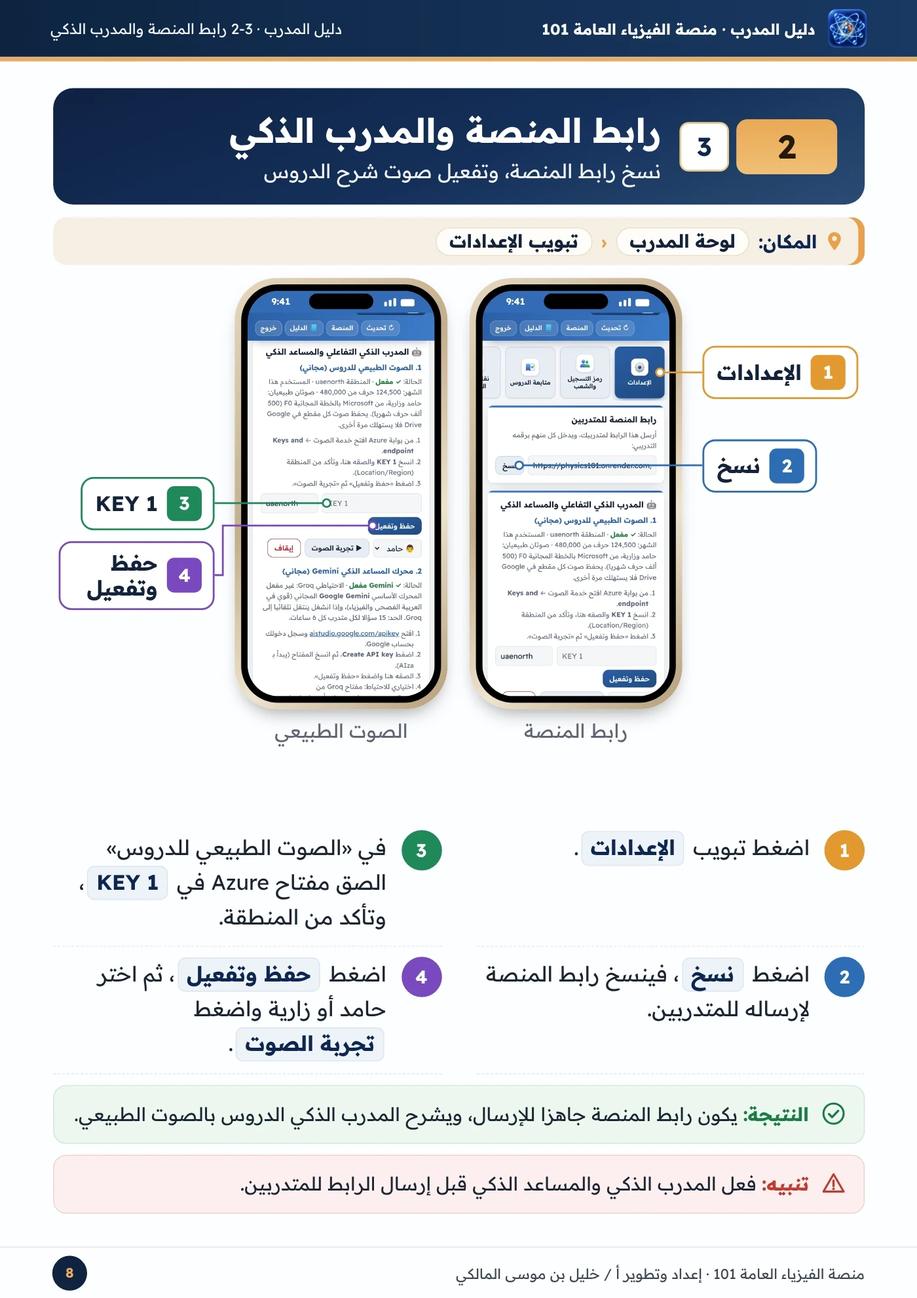
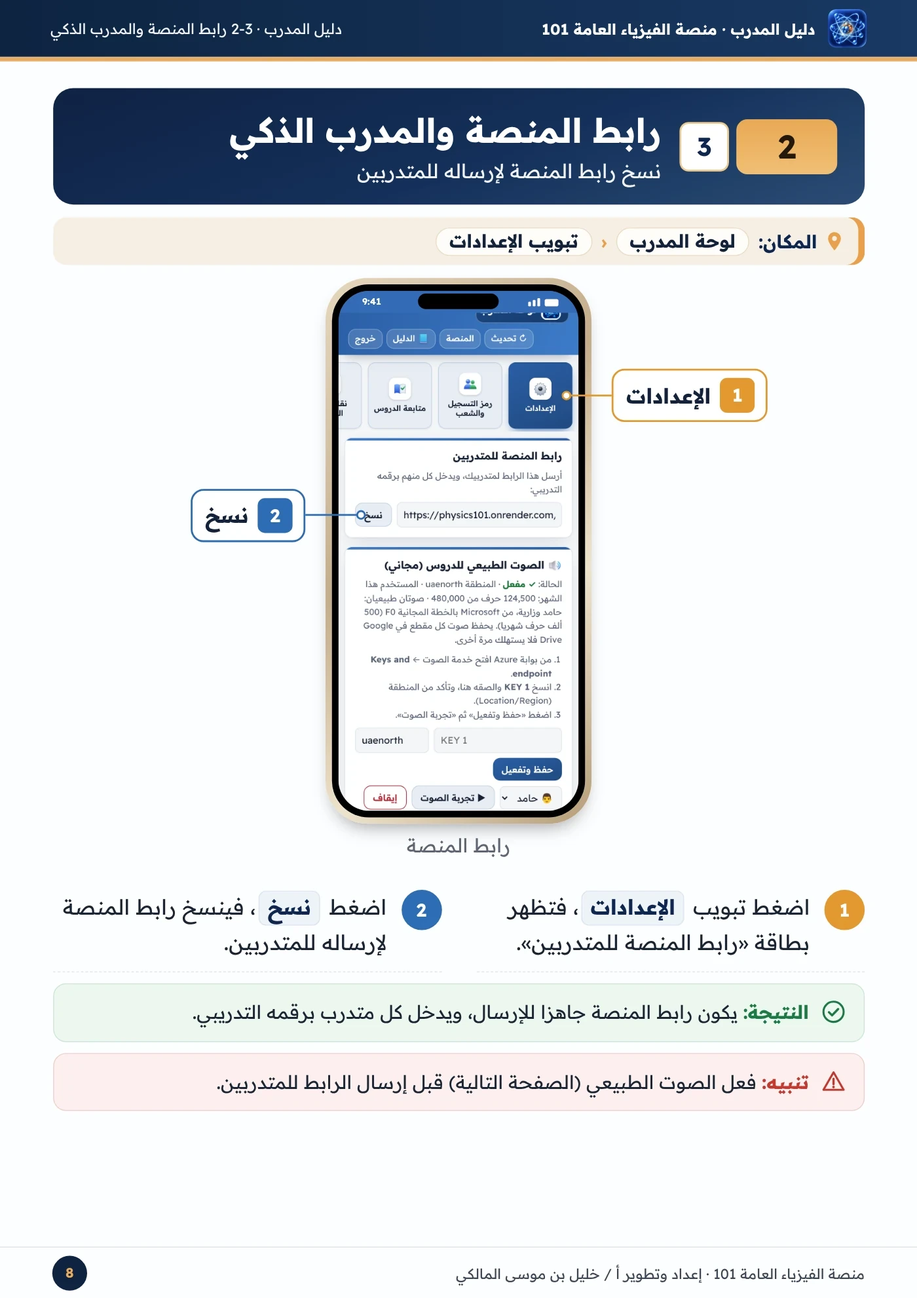
حذف تبويب أسئلة المساعد الذكي من لوحة المدرب، وأزرار أسئلة السبورة الجاهزة تلتف بلا شريط فارغ، وتحديث دليلي المدرب والمتدرب (دليل المدرب 28 صفحة)
Claude-Session: https://claude.ai/code/session_01PuEvYFgE27idXTycqsFmp6

Changed region(s): [[0.0614, 0.2155, 0.9521, 0.9238], [0.3071, 0.1232, 0.5529, 0.154], [0.1229, 0.739, 0.1843, 0.7698]]

diff --git a/teacher-guide.html b/teacher-guide.html
@@ -16,9 +16,9 @@ main{max-width:920px;margin:0 auto;padding:12px 10px 40px;padding-left:max(10px,
 .note{font-size:13px;color:#5B6479;margin:0 0 10px;text-align:center}
 </style></head><body>
 <header><img src="icon-192.png" alt=""><h1>دليل المدرب</h1><button type="button" id="tg">☰ الفهرس</button><a href="teacher.html">↩ لوحة المدرب</a></header>
-<main><nav class="toc" id="toc"><h2>☰ محتويات دليل المدرب</h2><a href="#p2"><span>•</span>المتطلبات قبل البدء</a><div class="stg"><b>1</b>مرحلة الدخول</div><a href="#p3"><span>1-1</span>الدخول إلى لوحة المدرب</a><a href="#p5"><span>1-2</span>الخصوصية وموافقة المتدربين</a><div class="stg"><b>2</b>مرحلة الإعدادات</div><a href="#p6"><span>2-1</span>رمز التسجيل لأول دخول</a><a href="#p7"><span>2-2</span>إضافة الشعب</a><a href="#p8"><span>2-3</span>رابط المنصة والمدرب الذكي</a><a href="#p10"><span>2-4</span>بيانات الدخول</a><a href="#p11"><span>2-5</span>إدارة المتدربين</a><a href="#p12"><span>2-6</span>توزيع نقاط مهام الدروس</a><div class="stg"><b>3</b>مرحلة متابعة الدروس</div><a href="#p13"><span>3-1</span>متابعة الدروس</a><a href="#p14"><span>3-2</span>سجل متابعة المتدرب</a><div class="stg"><b>4</b>مرحلة مهام الدروس</div><a href="#p15"><span>4-1</span>نقاط مهام الدروس</a><a href="#p16"><span>4-2</span>المؤشرات والمتابعة</a><a href="#p17"><span>4-3</span>بطاقة المتدرب</a><div class="stg"><b>5</b>مرحلة الاختبارات</div><a href="#p18"><span>5-1</span>الاختبارات: الشعب والمتدربون</a><a href="#p19"><span>5-2</span>فتح الاختبار والرمز والمدة</a><a href="#p20"><span>5-3</span>موعد الاختبار والإعدادات العامة</a><a href="#p21"><span>5-4</span>سجل نتائج الاختبارات</a><a href="#p22"><span>5-5</span>إعادة الاختبار والسماح بجهاز آخر</a><a href="#p23"><span>5-6</span>أوراق المتدربين</a><a href="#p24"><span>5-7</span>الورقة بعد الحل والطباعة</a><a href="#p25"><span>5-8</span>بنك الأسئلة وتصدير Word</a><div class="stg"><b>6</b>مرحلة الإحصائيات والتقارير</div><a href="#p26"><span>6-1</span>الإحصائيات والتقارير</a><a href="#p27"><span>6-2</span>التقييم ومدة شرح الدروس</a><a href="#p28"><span>6-3</span>أسئلة المساعد الذكي</a><div class="stg"><b>7</b>مرحلة الخروج</div><a href="#p29"><span>7-1</span>تسجيل الخروج</a></nav>
+<main><nav class="toc" id="toc"><h2>☰ محتويات دليل المدرب</h2><a href="#p2"><span>•</span>المتطلبات قبل البدء</a><div class="stg"><b>1</b>مرحلة الدخول</div><a href="#p3"><span>1-1</span>الدخول إلى لوحة المدرب</a><a href="#p5"><span>1-2</span>الخصوصية وموافقة المتدربين</a><div class="stg"><b>2</b>مرحلة الإعدادات</div><a href="#p6"><span>2-1</span>رمز التسجيل لأول دخول</a><a href="#p7"><span>2-2</span>إضافة الشعب</a><a href="#p8"><span>2-3</span>رابط المنصة والمدرب الذكي</a><a href="#p10"><span>2-4</span>بيانات الدخول</a><a href="#p11"><span>2-5</span>إدارة المتدربين</a><a href="#p12"><span>2-6</span>توزيع نقاط مهام الدروس</a><div class="stg"><b>3</b>مرحلة متابعة الدروس</div><a href="#p13"><span>3-1</span>متابعة الدروس</a><a href="#p14"><span>3-2</span>سجل متابعة المتدرب</a><div class="stg"><b>4</b>مرحلة مهام الدروس</div><a href="#p15"><span>4-1</span>نقاط مهام الدروس</a><a href="#p16"><span>4-2</span>المؤشرات والمتابعة</a><a href="#p17"><span>4-3</span>بطاقة المتدرب</a><div class="stg"><b>5</b>مرحلة الاختبارات</div><a href="#p18"><span>5-1</span>الاختبارات: الشعب والمتدربون</a><a href="#p19"><span>5-2</span>فتح الاختبار والرمز والمدة</a><a href="#p20"><span>5-3</span>موعد الاختبار والإعدادات العامة</a><a href="#p21"><span>5-4</span>سجل نتائج الاختبارات</a><a href="#p22"><span>5-5</span>إعادة الاختبار والسماح بجهاز آخر</a><a href="#p23"><span>5-6</span>أوراق المتدربين</a><a href="#p24"><span>5-7</span>الورقة بعد الحل والطباعة</a><a href="#p25"><span>5-8</span>بنك الأسئلة وتصدير Word</a><div class="stg"><b>6</b>مرحلة الإحصائيات والتقارير</div><a href="#p26"><span>6-1</span>الإحصائيات والتقارير</a><a href="#p27"><span>6-2</span>التقييم ومدة شرح الدروس</a><div class="stg"><b>7</b>مرحلة الخروج</div><a href="#p28"><span>7-1</span>تسجيل الخروج</a></nav>
 <p class="note">كبر الصفحة بإصبعين لقراءة التفاصيل.</p>
-<img id="p1" class="pg" src="gtc-01.webp?v=1104j" width="1000" height="1415" alt="دليل المدرب - صفحة 1" loading="eager" decoding="async"><img id="p2" class="pg" src="gtc-02.webp?v=1104j" width="1000" height="1415" alt="دليل المدرب - صفحة 2" loading="eager" decoding="async"><img id="p3" class="pg" src="gtc-03.webp?v=1104j" width="1000" height="1415" alt="دليل المدرب - صفحة 3" loading="lazy" decoding="async"><img id="p4" class="pg" src="gtc-04.webp?v=1104j" width="1000" height="1415" alt="دليل المدرب - صفحة 4" loading="lazy" decoding="async"><img id="p5" class="pg" src="gtc-05.webp?v=1104j" width="1000" height="1415" alt="دليل المدرب - صفحة 5" loading="lazy" decoding="async"><img id="p6" class="pg" src="gtc-06.webp?v=1104j" width="1000" height="1415" alt="دليل المدرب - صفحة 6" loading="lazy" decoding="async"><img id="p7" class="pg" src="gtc-07.webp?v=1104j" width="1000" height="1415" alt="دليل المدرب - صفحة 7" loading="lazy" decoding="async"><img id="p8" class="pg" src="gtc-08.webp?v=1104j" width="1000" height="1415" alt="دليل المدرب - صفحة 8" loading="lazy" decoding="async"><img id="p9" class="pg" src="gtc-09.webp?v=1104j" width="1000" height="1415" alt="دليل المدرب - صفحة 9" loading="lazy" decoding="async"><img id="p10" class="pg" src="gtc-10.webp?v=1104j" width="1000" height="1415" alt="دليل المدرب - صفحة 10" loading="lazy" decoding="async"><img id="p11" class="pg" src="gtc-11.webp?v=1104j" width="1000" height="1415" alt="دليل المدرب - صفحة 11" loading="lazy" decoding="async"><img id="p12" class="pg" src="gtc-12.webp?v=1104j" width="1000" height="1415" alt="دليل المدرب - صفحة 12" loading="lazy" decoding="async"><img id="p13" class="pg" src="gtc-13.webp?v=1104j" width="1000" height="1415" alt="دليل المدرب - صفحة 13" loading="lazy" decoding="async"><img id="p14" class="pg" src="gtc-14.webp?v=1104j" width="1000" height="1415" alt="دليل المدرب - صفحة 14" loading="lazy" decoding="async"><img id="p15" class="pg" src="gtc-15.webp?v=1104j" width="1000" height="1415" alt="دليل المدرب - صفحة 15" loading="lazy" decoding="async"><img id="p16" class="pg" src="gtc-16.webp?v=1104j" width="1000" height="1415" alt="دليل المدرب - صفحة 16" loading="lazy" decoding="async"><img id="p17" class="pg" src="gtc-17.webp?v=1104j" width="1000" height="1415" alt="دليل المدرب - صفحة 17" loading="lazy" decoding="async"><img id="p18" class="pg" src="gtc-18.webp?v=1104j" width="1000" height="1415" alt="دليل المدرب - صفحة 18" loading="lazy" decoding="async"><img id="p19" class="pg" src="gtc-19.webp?v=1104j" width="1000" height="1415" alt="دليل المدرب - صفحة 19" loading="lazy" decoding="async"><img id="p20" class="pg" src="gtc-20.webp?v=1104j" width="1000" height="1415" alt="دليل المدرب - صفحة 20" loading="lazy" decoding="async"><img id="p21" class="pg" src="gtc-21.webp?v=1104j" width="1000" height="1415" alt="دليل المدرب - صفحة 21" loading="lazy" decoding="async"><img id="p22" class="pg" src="gtc-22.webp?v=1104j" width="1000" height="1415" alt="دليل المدرب - صفحة 22" loading="lazy" decoding="async"><img id="p23" class="pg" src="gtc-23.webp?v=1104j" width="1000" height="1415" alt="دليل المدرب - صفحة 23" loading="lazy" decoding="async"><img id="p24" class="pg" src="gtc-24.webp?v=1104j" width="1000" height="1415" alt="دليل المدرب - صفحة 24" loading="lazy" decoding="async"><img id="p25" class="pg" src="gtc-25.webp?v=1104j" width="1000" height="1415" alt="دليل المدرب - صفحة 25" loading="lazy" decoding="async"><img id="p26" class="pg" src="gtc-26.webp?v=1104j" width="1000" height="1415" alt="دليل المدرب - صفحة 26" loading="lazy" decoding="async"><img id="p27" class="pg" src="gtc-27.webp?v=1104j" width="1000" height="1415" alt="دليل المدرب - صفحة 27" loading="lazy" decoding="async"><img id="p28" class="pg" src="gtc-28.webp?v=1104j" width="1000" height="1415" alt="دليل المدرب - صفحة 28" loading="lazy" decoding="async"><img id="p29" class="pg" src="gtc-29.webp?v=1104j" width="1000" height="1415" alt="دليل المدرب - صفحة 29" loading="lazy" decoding="async"></main>
+<img id="p1" class="pg" src="gtc-01.webp?v=1104k" width="1000" height="1415" alt="دليل المدرب - صفحة 1" loading="eager" decoding="async"><img id="p2" class="pg" src="gtc-02.webp?v=1104k" width="1000" height="1415" alt="دليل المدرب - صفحة 2" loading="eager" decoding="async"><img id="p3" class="pg" src="gtc-03.webp?v=1104k" width="1000" height="1415" alt="دليل المدرب - صفحة 3" loading="lazy" decoding="async"><img id="p4" class="pg" src="gtc-04.webp?v=1104k" width="1000" height="1415" alt="دليل المدرب - صفحة 4" loading="lazy" decoding="async"><img id="p5" class="pg" src="gtc-05.webp?v=1104k" width="1000" height="1415" alt="دليل المدرب - صفحة 5" loading="lazy" decoding="async"><img id="p6" class="pg" src="gtc-06.webp?v=1104k" width="1000" height="1415" alt="دليل المدرب - صفحة 6" loading="lazy" decoding="async"><img id="p7" class="pg" src="gtc-07.webp?v=1104k" width="1000" height="1415" alt="دليل المدرب - صفحة 7" loading="lazy" decoding="async"><img id="p8" class="pg" src="gtc-08.webp?v=1104k" width="1000" height="1415" alt="دليل المدرب - صفحة 8" loading="lazy" decoding="async"><img id="p9" class="pg" src="gtc-09.webp?v=1104k" width="1000" height="1415" alt="دليل المدرب - صفحة 9" loading="lazy" decoding="async"><img id="p10" class="pg" src="gtc-10.webp?v=1104k" width="1000" height="1415" alt="دليل المدرب - صفحة 10" loading="lazy" decoding="async"><img id="p11" class="pg" src="gtc-11.webp?v=1104k" width="1000" height="1415" alt="دليل المدرب - صفحة 11" loading="lazy" decoding="async"><img id="p12" class="pg" src="gtc-12.webp?v=1104k" width="1000" height="1415" alt="دليل المدرب - صفحة 12" loading="lazy" decoding="async"><img id="p13" class="pg" src="gtc-13.webp?v=1104k" width="1000" height="1415" alt="دليل المدرب - صفحة 13" loading="lazy" decoding="async"><img id="p14" class="pg" src="gtc-14.webp?v=1104k" width="1000" height="1415" alt="دليل المدرب - صفحة 14" loading="lazy" decoding="async"><img id="p15" class="pg" src="gtc-15.webp?v=1104k" width="1000" height="1415" alt="دليل المدرب - صفحة 15" loading="lazy" decoding="async"><img id="p16" class="pg" src="gtc-16.webp?v=1104k" width="1000" height="1415" alt="دليل المدرب - صفحة 16" loading="lazy" decoding="async"><img id="p17" class="pg" src="gtc-17.webp?v=1104k" width="1000" height="1415" alt="دليل المدرب - صفحة 17" loading="lazy" decoding="async"><img id="p18" class="pg" src="gtc-18.webp?v=1104k" width="1000" height="1415" alt="دليل المدرب - صفحة 18" loading="lazy" decoding="async"><img id="p19" class="pg" src="gtc-19.webp?v=1104k" width="1000" height="1415" alt="دليل المدرب - صفحة 19" loading="lazy" decoding="async"><img id="p20" class="pg" src="gtc-20.webp?v=1104k" width="1000" height="1415" alt="دليل المدرب - صفحة 20" loading="lazy" decoding="async"><img id="p21" class="pg" src="gtc-21.webp?v=1104k" width="1000" height="1415" alt="دليل المدرب - صفحة 21" loading="lazy" decoding="async"><img id="p22" class="pg" src="gtc-22.webp?v=1104k" width="1000" height="1415" alt="دليل المدرب - صفحة 22" loading="lazy" decoding="async"><img id="p23" class="pg" src="gtc-23.webp?v=1104k" width="1000" height="1415" alt="دليل المدرب - صفحة 23" loading="lazy" decoding="async"><img id="p24" class="pg" src="gtc-24.webp?v=1104k" width="1000" height="1415" alt="دليل المدرب - صفحة 24" loading="lazy" decoding="async"><img id="p25" class="pg" src="gtc-25.webp?v=1104k" width="1000" height="1415" alt="دليل المدرب - صفحة 25" loading="lazy" decoding="async"><img id="p26" class="pg" src="gtc-26.webp?v=1104k" width="1000" height="1415" alt="دليل المدرب - صفحة 26" loading="lazy" decoding="async"><img id="p27" class="pg" src="gtc-27.webp?v=1104k" width="1000" height="1415" alt="دليل المدرب - صفحة 27" loading="lazy" decoding="async"><img id="p28" class="pg" src="gtc-28.webp?v=1104k" width="1000" height="1415" alt="دليل المدرب - صفحة 28" loading="lazy" decoding="async"></main>
 <button class="top" type="button" id="up" aria-label="إلى الأعلى">↑</button>
 <script>
 const T=document.getElementById('toc');document.getElementById('tg').onclick=()=>{T.hidden=false;T.scrollIntoView({behavior:'smooth'})};

diff --git a/guide.html b/guide.html
@@ -18,7 +18,7 @@ main{max-width:920px;margin:0 auto;padding:12px 10px 40px;padding-left:max(10px,
 <header><img src="icon-192.png" alt=""><h1>دليل المتدرب</h1><button type="button" id="tg">☰ الفهرس</button><a href="index.html">↩ المنصة</a></header>
 <main><nav class="toc" id="toc"><h2>☰ محتويات دليل المتدرب</h2><a href="#p2"><span>•</span>المتطلبات قبل البدء</a><div class="stg"><b>1</b>مرحلة البدء</div><a href="#p3"><span>1-1</span>البدء: الدخول وتعيين كلمة المرور</a><a href="#p7"><span>1-2</span>الصفحة الرئيسية واختيار الدرس</a><div class="stg"><b>2</b>مرحلة الشرح</div><a href="#p8"><span>2-1</span>شرح الدرس على السبورة مع المدرب الذكي</a><a href="#p12"><span>2-2</span>مهام الدروس</a><div class="stg"><b>3</b>مرحلة التدريب</div><a href="#p13"><span>3-1</span>الأمثلة والتمارين التفاعلية</a><a href="#p17"><span>3-2</span>اختبر نفسك والآلة الحاسبة</a><a href="#p19"><span>3-3</span>التجارب العملية التفاعلية</a><a href="#p22"><span>3-4</span>المساعد الذكي وتقييم الدرس</a><div class="stg"><b>4</b>مرحلة الإنهاء</div><a href="#p25"><span>4-1</span>إنهاء الدرس والانتقال للدرس التالي</a><a href="#p27"><span>4-2</span>الإعدادات: الصوت والوضع الليلي</a><div class="stg"><b>5</b>مرحلة الاختبارات والخروج</div><a href="#p29"><span>5-1</span>الاختبارات التجريبية</a><a href="#p33"><span>5-2</span>تسجيل الخروج</a></nav>
 <p class="note">كبر الصفحة بإصبعين لقراءة التفاصيل.</p>
-<img id="p1" class="pg" src="gtr-01.webp?v=1104j" width="1000" height="1415" alt="دليل المتدرب - صفحة 1" loading="eager" decoding="async"><img id="p2" class="pg" src="gtr-02.webp?v=1104j" width="1000" height="1415" alt="دليل المتدرب - صفحة 2" loading="eager" decoding="async"><img id="p3" class="pg" src="gtr-03.webp?v=1104j" width="1000" height="1415" alt="دليل المتدرب - صفحة 3" loading="lazy" decoding="async"><img id="p4" class="pg" src="gtr-04.webp?v=1104j" width="1000" height="1415" alt="دليل المتدرب - صفحة 4" loading="lazy" decoding="async"><img id="p5" class="pg" src="gtr-05.webp?v=1104j" width="1000" height="1415" alt="دليل المتدرب - صفحة 5" loading="lazy" decoding="async"><img id="p6" class="pg" src="gtr-06.webp?v=1104j" width="1000" height="1415" alt="دليل المتدرب - صفحة 6" loading="lazy" decoding="async"><img id="p7" class="pg" src="gtr-07.webp?v=1104j" width="1000" height="1415" alt="دليل المتدرب - صفحة 7" loading="lazy" decoding="async"><img id="p8" class="pg" src="gtr-08.webp?v=1104j" width="1000" height="1415" alt="دليل المتدرب - صفحة 8" loading="lazy" decoding="async"><img id="p9" class="pg" src="gtr-09.webp?v=1104j" width="1000" height="1415" alt="دليل المتدرب - صفحة 9" loading="lazy" decoding="async"><img id="p10" class="pg" src="gtr-10.webp?v=1104j" width="1000" height="1415" alt="دليل المتدرب - صفحة 10" loading="lazy" decoding="async"><img id="p11" class="pg" src="gtr-11.webp?v=1104j" width="1000" height="1415" alt="دليل المتدرب - صفحة 11" loading="lazy" decoding="async"><img id="p12" class="pg" src="gtr-12.webp?v=1104j" width="1000" height="1415" alt="دليل المتدرب - صفحة 12" loading="lazy" decoding="async"><img id="p13" class="pg" src="gtr-13.webp?v=1104j" width="1000" height="1415" alt="دليل المتدرب - صفحة 13" loading="lazy" decoding="async"><img id="p14" class="pg" src="gtr-14.webp?v=1104j" width="1000" height="1415" alt="دليل المتدرب - صفحة 14" loading="lazy" decoding="async"><img id="p15" class="pg" src="gtr-15.webp?v=1104j" width="1000" height="1415" alt="دليل المتدرب - صفحة 15" loading="lazy" decoding="async"><img id="p16" class="pg" src="gtr-16.webp?v=1104j" width="1000" height="1415" alt="دليل المتدرب - صفحة 16" loading="lazy" decoding="async"><img id="p17" class="pg" src="gtr-17.webp?v=1104j" width="1000" height="1415" alt="دليل المتدرب - صفحة 17" loading="lazy" decoding="async"><img id="p18" class="pg" src="gtr-18.webp?v=1104j" width="1000" height="1415" alt="دليل المتدرب - صفحة 18" loading="lazy" decoding="async"><img id="p19" class="pg" src="gtr-19.webp?v=1104j" width="1000" height="1415" alt="دليل المتدرب - صفحة 19" loading="lazy" decoding="async"><img id="p20" class="pg" src="gtr-20.webp?v=1104j" width="1000" height="1415" alt="دليل المتدرب - صفحة 20" loading="lazy" decoding="async"><img id="p21" class="pg" src="gtr-21.webp?v=1104j" width="1000" height="1415" alt="دليل المتدرب - صفحة 21" loading="lazy" decoding="async"><img id="p22" class="pg" src="gtr-22.webp?v=1104j" width="1000" height="1415" alt="دليل المتدرب - صفحة 22" loading="lazy" decoding="async"><img id="p23" class="pg" src="gtr-23.webp?v=1104j" width="1000" height="1415" alt="دليل المتدرب - صفحة 23" loading="lazy" decoding="async"><img id="p24" class="pg" src="gtr-24.webp?v=1104j" width="1000" height="1415" alt="دليل المتدرب - صفحة 24" loading="lazy" decoding="async"><img id="p25" class="pg" src="gtr-25.webp?v=1104j" width="1000" height="1415" alt="دليل المتدرب - صفحة 25" loading="lazy" decoding="async"><img id="p26" class="pg" src="gtr-26.webp?v=1104j" width="1000" height="1415" alt="دليل المتدرب - صفحة 26" loading="lazy" decoding="async"><img id="p27" class="pg" src="gtr-27.webp?v=1104j" width="1000" height="1415" alt="دليل المتدرب - صفحة 27" loading="lazy" decoding="async"><img id="p28" class="pg" src="gtr-28.webp?v=1104j" width="1000" height="1415" alt="دليل المتدرب - صفحة 28" loading="lazy" decoding="async"><img id="p29" class="pg" src="gtr-29.webp?v=1104j" width="1000" height="1415" alt="دليل المتدرب - صفحة 29" loading="lazy" decoding="async"><img id="p30" class="pg" src="gtr-30.webp?v=1104j" width="1000" height="1415" alt="دليل المتدرب - صفحة 30" loading="lazy" decoding="async"><img id="p31" class="pg" src="gtr-31.webp?v=1104j" width="1000" height="1415" alt="دليل المتدرب - صفحة 31" loading="lazy" decoding="async"><img id="p32" class="pg" src="gtr-32.webp?v=1104j" width="1000" height="1415" alt="دليل المتدرب - صفحة 32" loading="lazy" decoding="async"><img id="p33" class="pg" src="gtr-33.webp?v=1104j" width="1000" height="1415" alt="دليل المتدرب - صفحة 33" loading="lazy" decoding="async"></main>
+<img id="p1" class="pg" src="gtr-01.webp?v=1104k" width="1000" height="1415" alt="دليل المتدرب - صفحة 1" loading="eager" decoding="async"><img id="p2" class="pg" src="gtr-02.webp?v=1104k" width="1000" height="1415" alt="دليل المتدرب - صفحة 2" loading="eager" decoding="async"><img id="p3" class="pg" src="gtr-03.webp?v=1104k" width="1000" height="1415" alt="دليل المتدرب - صفحة 3" loading="lazy" decoding="async"><img id="p4" class="pg" src="gtr-04.webp?v=1104k" width="1000" height="1415" alt="دليل المتدرب - صفحة 4" loading="lazy" decoding="async"><img id="p5" class="pg" src="gtr-05.webp?v=1104k" width="1000" height="1415" alt="دليل المتدرب - صفحة 5" loading="lazy" decoding="async"><img id="p6" class="pg" src="gtr-06.webp?v=1104k" width="1000" height="1415" alt="دليل المتدرب - صفحة 6" loading="lazy" decoding="async"><img id="p7" class="pg" src="gtr-07.webp?v=1104k" width="1000" height="1415" alt="دليل المتدرب - صفحة 7" loading="lazy" decoding="async"><img id="p8" class="pg" src="gtr-08.webp?v=1104k" width="1000" height="1415" alt="دليل المتدرب - صفحة 8" loading="lazy" decoding="async"><img id="p9" class="pg" src="gtr-09.webp?v=1104k" width="1000" height="1415" alt="دليل المتدرب - صفحة 9" loading="lazy" decoding="async"><img id="p10" class="pg" src="gtr-10.webp?v=1104k" width="1000" height="1415" alt="دليل المتدرب - صفحة 10" loading="lazy" decoding="async"><img id="p11" class="pg" src="gtr-11.webp?v=1104k" width="1000" height="1415" alt="دليل المتدرب - صفحة 11" loading="lazy" decoding="async"><img id="p12" class="pg" src="gtr-12.webp?v=1104k" width="1000" height="1415" alt="دليل المتدرب - صفحة 12" loading="lazy" decoding="async"><img id="p13" class="pg" src="gtr-13.webp?v=1104k" width="1000" height="1415" alt="دليل المتدرب - صفحة 13" loading="lazy" decoding="async"><img id="p14" class="pg" src="gtr-14.webp?v=1104k" width="1000" height="1415" alt="دليل المتدرب - صفحة 14" loading="lazy" decoding="async"><img id="p15" class="pg" src="gtr-15.webp?v=1104k" width="1000" height="1415" alt="دليل المتدرب - صفحة 15" loading="lazy" decoding="async"><img id="p16" class="pg" src="gtr-16.webp?v=1104k" width="1000" height="1415" alt="دليل المتدرب - صفحة 16" loading="lazy" decoding="async"><img id="p17" class="pg" src="gtr-17.webp?v=1104k" width="1000" height="1415" alt="دليل المتدرب - صفحة 17" loading="lazy" decoding="async"><img id="p18" class="pg" src="gtr-18.webp?v=1104k" width="1000" height="1415" alt="دليل المتدرب - صفحة 18" loading="lazy" decoding="async"><img id="p19" class="pg" src="gtr-19.webp?v=1104k" width="1000" height="1415" alt="دليل المتدرب - صفحة 19" loading="lazy" decoding="async"><img id="p20" class="pg" src="gtr-20.webp?v=1104k" width="1000" height="1415" alt="دليل المتدرب - صفحة 20" loading="lazy" decoding="async"><img id="p21" class="pg" src="gtr-21.webp?v=1104k" width="1000" height="1415" alt="دليل المتدرب - صفحة 21" loading="lazy" decoding="async"><img id="p22" class="pg" src="gtr-22.webp?v=1104k" width="1000" height="1415" alt="دليل المتدرب - صفحة 22" loading="lazy" decoding="async"><img id="p23" class="pg" src="gtr-23.webp?v=1104k" width="1000" height="1415" alt="دليل المتدرب - صفحة 23" loading="lazy" decoding="async"><img id="p24" class="pg" src="gtr-24.webp?v=1104k" width="1000" height="1415" alt="دليل المتدرب - صفحة 24" loading="lazy" decoding="async"><img id="p25" class="pg" src="gtr-25.webp?v=1104k" width="1000" height="1415" alt="دليل المتدرب - صفحة 25" loading="lazy" decoding="async"><img id="p26" class="pg" src="gtr-26.webp?v=1104k" width="1000" height="1415" alt="دليل المتدرب - صفحة 26" loading="lazy" decoding="async"><img id="p27" class="pg" src="gtr-27.webp?v=1104k" width="1000" height="1415" alt="دليل المتدرب - صفحة 27" loading="lazy" decoding="async"><img id="p28" class="pg" src="gtr-28.webp?v=1104k" width="1000" height="1415" alt="دليل المتدرب - صفحة 28" loading="lazy" decoding="async"><img id="p29" class="pg" src="gtr-29.webp?v=1104k" width="1000" height="1415" alt="دليل المتدرب - صفحة 29" loading="lazy" decoding="async"><img id="p30" class="pg" src="gtr-30.webp?v=1104k" width="1000" height="1415" alt="دليل المتدرب - صفحة 30" loading="lazy" decoding="async"><img id="p31" class="pg" src="gtr-31.webp?v=1104k" width="1000" height="1415" alt="دليل المتدرب - صفحة 31" loading="lazy" decoding="async"><img id="p32" class="pg" src="gtr-32.webp?v=1104k" width="1000" height="1415" alt="دليل المتدرب - صفحة 32" loading="lazy" decoding="async"><img id="p33" class="pg" src="gtr-33.webp?v=1104k" width="1000" height="1415" alt="دليل المتدرب - صفحة 33" loading="lazy" decoding="async"></main>
 <button class="top" type="button" id="up" aria-label="إلى الأعلى">↑</button>
 <script>
 const T=document.getElementById('toc');document.getElementById('tg').onclick=()=>{T.hidden=false;T.scrollIntoView({behavior:'smooth'})};

diff --git a/teacher.html b/teacher.html
@@ -338,7 +338,7 @@ const esc=s=>String(s==null?'':s).replace(/[&<>"]/g,c=>({'&':'&amp;','<':'&lt;',
 const AR=n=>String(n);   // الأرقام بالإنجليزية في كل المنصة
 const ls={get(k,d){try{const v=localStorage.getItem(k);return v?JSON.parse(v):d}catch(e){return d}},set(k,v){try{localStorage.setItem(k,JSON.stringify(v))}catch(e){}},del(k){try{localStorage.removeItem(k)}catch(e){}}};
 let TOKEN=ls.get('p101-tauth',null);
-let WOPEN=false,WSET=[],WREC='',DATA=null,tab=ls.get('p101-ttab','sections'),secFilter=ls.get('p101-tsec','all'),sortBy={k:'name',asc:true},q='';
+let WOPEN=false,WSET=[],WREC='',DATA=null,tab=ls.get('p101-ttab','sections')==='ai'?'settings':ls.get('p101-ttab','sections'),secFilter=ls.get('p101-tsec','all'),sortBy={k:'name',asc:true},q='';
 const ERR={tts_bad_key:'مفتاح Azure غير صحيح الشكل. انسخ KEY 1 كما هو.',tts_key:'مفتاح Azure غير صالح. انسخ KEY 1 مرة أخرى من صفحة Keys and endpoint.',tts_region:'المنطقة غير صحيحة. اكتبها كما في Azure، مثل uaenorth.',tts_off:'الصوت الطبيعي غير مفعل.',tts_quota:'انتهت الحصة المجانية لهذا الشهر.',tts_busy:'الخدمة مشغولة، حاول بعد دقيقة.',tts_error:'تعذر توليد الصوت. تأكد أنك نشرت الإصدار الجديد من الكود ومنحت صلاحية Google Drive.',bad_key:'المفتاح غير صحيح الشكل.',ai_key:'المفتاح غير صالح أو منتهي. أنشئ مفتاحا جديدا.',wrong_user:'اسم المستخدم غير صحيح.',short_user:'اسم المستخدم قصير (6 خانات على الأقل).',bad_setup_code:'رمز إعداد المدرب غير صحيح أو انتهت مدته. شغل الدالة newTeacherSetupCode في Apps Script لرمز جديد.',weak_password:'كلمة المرور لا تحقق الشروط: 12 خانة على الأقل، وحرف إنجليزي كبير وصغير ورقم ورمز، بلا مسافات، ولا تحتوي اسم المستخدم.',locked:'الحساب مقفل مؤقتا بسبب محاولات خاطئة. حاول بعد قليل.',bad_user:'اختر اسم مستخدم آخر: 6 خانات على الأقل، وليس demo ولا أرقاما فقط.',wrong_password:'كلمة المرور غير صحيحة.',short_password:'كلمة المرور قصيرة (12 خانة على الأقل).',already_set:'تم إنشاء كلمة مرور المدرب مسبقا. استخدم «دخول».',not_setup:'لم تنشأ كلمة مرور المدرب بعد.',section_not_empty:'لا يمكن حذف شعبة فيها متدربون. انقلهم أو احذفهم أولا.',name_required:'اكتب اسم الشعبة.',not_found:'غير موجود.',auth:'انتهت الجلسة، سجل الدخول مرة أخرى.'};
 const errText=e=>ERR[e]||('حدث خطأ: '+e);
 function toast(m){const t=document.createElement('div');t.className='toast';t.textContent=m;document.body.appendChild(t);setTimeout(()=>t.remove(),2600)}
@@ -363,7 +363,7 @@ function boot(){
   if(!TOKEN)return authScreen();
   root.innerHTML=`<header><b>لوحة المدرب</b><span class="tag" id="sheetLink"></span><div class="sp">
     <button class="btn ghost sm" id="reload">↻ تحديث</button><a class="btn ghost sm" href="index.html" onclick="event.preventDefault();location.replace('index.html')">المنصة</a><a class="btn ghost sm" href="teacher-guide.html">📘 الدليل</a><button class="btn ghost sm" id="logout">خروج</button></div></header>
-  <nav class="tabs" role="tablist">${[['settings','الإعدادات'],['sections','رمز التسجيل والشعب'],['lessons','متابعة الدروس'],['students','نقاط مهام الدروس'],['exams','الاختبارات التجريبية'],['bank','بنك الأسئلة'],['stats','الإحصائيات'],['reports','التقارير'],['ratings','تقييم المتدربين للمنصة'],['dur','مدة شرح الدروس'],['ai','أسئلة المساعد الذكي'],['demo','حساب المعاينة']].map(([k,n])=>`<button role="tab" data-t="${k}" aria-selected="${tab===k}">${n}</button>`).join('')}</nav>
+  <nav class="tabs" role="tablist">${[['settings','الإعدادات'],['sections','رمز التسجيل والشعب'],['lessons','متابعة الدروس'],['students','نقاط مهام الدروس'],['exams','الاختبارات التجريبية'],['bank','بنك الأسئلة'],['stats','الإحصائيات'],['reports','التقارير'],['ratings','تقييم المتدربين للمنصة'],['dur','مدة شرح الدروس'],['demo','حساب المعاينة']].map(([k,n])=>`<button role="tab" data-t="${k}" aria-selected="${tab===k}">${n}</button>`).join('')}</nav>
   <main id="main"><p class="empty"><span class="spin"></span> جار تحميل البيانات…</p></main>`;
   document.documentElement.style.setProperty('--hh',$('header').offsetHeight+'px');
   document.querySelectorAll('nav.tabs button').forEach(b=>b.onclick=()=>{tab=b.dataset.t;ls.set('p101-ttab',tab);document.querySelectorAll('nav.tabs button').forEach(x=>x.setAttribute('aria-selected',x===b));draw()});

diff --git a/fixedai.js b/fixedai.js
@@ -126,7 +126,7 @@ var boardAns=function(o){var T=FB[o.lessonKey]||(window.FXB&&FXB[o.lessonKey]);i
   if(i==null){/* سؤال مكتوب: يبقى المتدرب على الأسئلة الجاهزة */return 'اختر سؤالا من الأسئلة الجاهزة تحت النافذة: «اشرح أبسط»، أو «مثال بالأرقام»، أو «لماذا؟».'}
   return row[i]};
 window.FXASK=function(o){var a=o&&o.mode==='board'?boardAns(o):null;return a?new Promise(function(r){setTimeout(function(){r({ok:true,answer:a})},350)}):Promise.resolve({ok:false,error:'fixed'})};
-var css=document.createElement('style');css.textContent='html body .board .bAskP .bAskF,html body .board .bAskP.p102 .bAskF,html body .board.qOpen .bAskP .bAskF{display:none!important}html body .board .bAskP .bAskChips{flex-wrap:wrap!important;overflow:visible!important}';
+var css=document.createElement('style');css.textContent='html body .board .bAskP .bAskF,html body .board .bAskP.p102 .bAskF,html body .board.qOpen .bAskP .bAskF{display:none!important}html body .board .bAskP .bAskChips,html body .board.board.board.board .bAskP.p102.p102 .bAskChips.bAskChips{flex-wrap:wrap!important;overflow:visible!important}html body .board .bAskP .coDock{display:none!important}';
 var fixT=function(){var w=document.createTreeWalker(document.body,NodeFilter.SHOW_TEXT);var n;while(n=w.nextNode()){if(n.nodeValue.indexOf('اختر سؤالا أو اكتب سؤالك')>=0)n.nodeValue=n.nodeValue.replace('اختر سؤالا أو اكتب سؤالك','اختر سؤالك')}};
 var hideF=function(){document.querySelectorAll('.bAskF').forEach(function(f){f.style.setProperty('display','none','important')})};
 document.addEventListener('click',function(e){if(e.target.closest&&e.target.closest('.bAskMini,.bAskBtn')){setTimeout(fixT,50);setTimeout(hideF,50);setTimeout(hideF,400)}},true);(document.head||document.documentElement).appendChild(css);

diff --git a/index.html b/index.html
@@ -3875,5 +3875,5 @@ new MutationObserver(function(){var B=document.querySelector('.board');if(B&&B._
 setInterval(function(){var B=document.querySelector('.board');if(B&&B._p102&&!B._p103)setup(B)},500);
 })();
 </script>
-<script src="fixeddata.js?v=1"></script><script src="fixedai.js?v=2"></script></body>
+<script src="fixeddata.js?v=1"></script><script src="fixedai.js?v=3"></script></body>
 </html>
